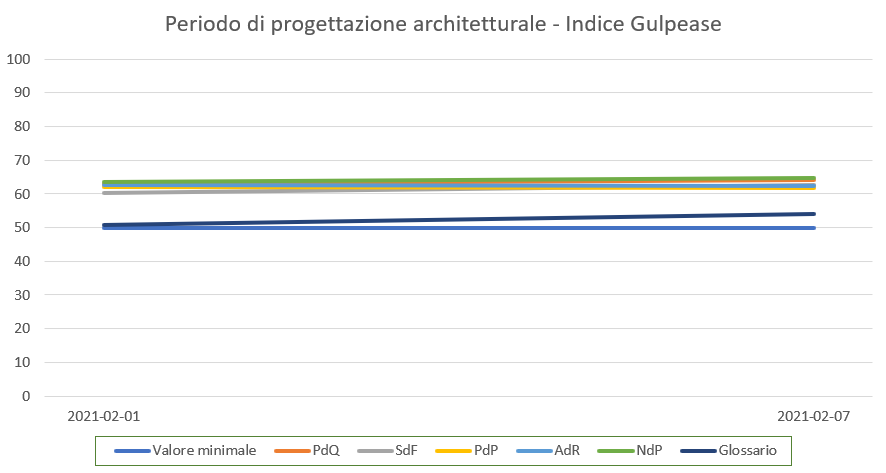
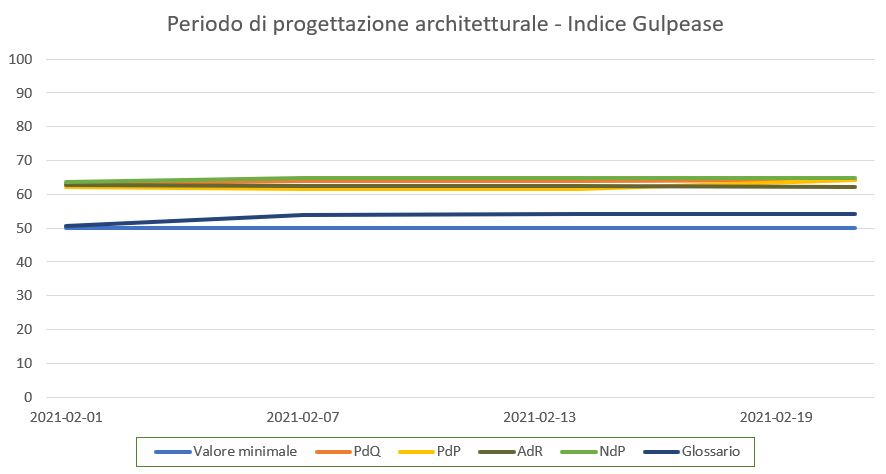
Aggiunto gulpease
Aggiunto grafico Gulpease

diff --git a/DocumentiPubblici/PianoDiProgetto/Sezioni/Sottosezioni/Consuntivo/ConsuntivoProgettazioneArchitetturale.tex b/DocumentiPubblici/PianoDiProgetto/Sezioni/Sottosezioni/Consuntivo/ConsuntivoProgettazioneArchitetturale.tex
@@ -44,7 +44,7 @@ In questo sottoperiodo si è proceduto a correggere i documenti a seguito di qua
 \subsubsection{Preventivo a finire}
 Per poter correggere le mancanze individuate nell'\AdRv{1.0.0}\ a seguito dell'incontro con il \CR\, sono state necessarie ben 6 ore in più nel ruolo di \textit{Analista} rispetto a quanto preventivato ma riorganizzando il metodo di verifica è stato possibile recuperare 4 ore nel ruolo di \textit{Verificatore}.
 
-\myparagraph{\glo{TB} e \glo{PoC} - Incremento 1}
+\myparagraph{\glo{TB} e PoC - Incremento 1}
 Di seguito è presente la tabella contenente i dati del consuntivo dal 2021\_02\_10 al 2021\_02\_20.
 \begin{table}[H]
 	\centering
@@ -54,17 +54,17 @@ Di seguito è presente la tabella contenente i dati del consuntivo dal 2021\_02\
 		Ruolo			&	Preventivo				&	Consuntivo		&	Preventivo	&	Consuntivo\\ \hline
 		{\Responsabile}		&	5					&	5				&	150,00		&	150,00 \\ \hline
 		{\Amministratore}	&	5					&	5				&	100,00		&	100,00 \\ \hline
-		\textit{Analista}	&	10					&	14(+4)				&	250,00		&	350,00(+100) \\ \hline
+		\textit{Analista}	&	10					&	14(+4)			&	250,00		&	350,00(+100) \\ \hline
 		\textit{Progettista}& 	32					&   32 				& 	704,00		&  	704,00 \\ \hline
 		\textit{Programmatore}& 12					& 	12				& 	180,00		&  	180,00 \\ \hline
-		\textit{Verificatore}&	13					&	10(-3)				&	195,00		&	150,00(-45) \\ \hline
+		\textit{Verificatore}&	13					&	10(-3)			&	195,00		&	150,00(-45) \\ \hline
 		Totale				&	77					&	78				&	1579,00		&	1634,00 \\ \hline
-		Differenza			& 	\multicolumn{2}{c|}{-1} 			        &\multicolumn{2}{c|}{-55}\\ \hline
+		Differenza			& 	\multicolumn{2}{c|}{-1} 			    &\multicolumn{2}{c|}{-55}\\ \hline
 	\end{tabular}
 	\caption{Prospetto orario ed economico a consuntivo dal 2021\_02\_10 al 2021\_02\_20}
 \end{table}
 \subsubsection{Conclusione}
-In questo periodo si è iniziata la stesura del \glo{PoC} e si è continuato con la correzione dell'\AdR e l'aggiornamento di alcuni documenti.
+In questo periodo si è iniziata la stesura del \glo{PoC} e si è continuato con la correzione dell'\AdR{} e l'aggiornamento di alcuni documenti.
 \subsubsection{Preventivo a finire}
 Anche in questo periodo sono state necessarie più ore nel ruolo di \textit{Analista} rispetto a quanto preventivato, 4 ore in più, e meno nel ruolo di \textit{Verificatore} grazie al migliore procedimento di verifica già attuato anche nelle settimane precedenti. 
 
@@ -83,7 +83,7 @@ Di seguito è presente la tabella contenente i dati del consuntivo dal 2021\_02\
 		\textit{Programmatore}& 9					& 	9				& 	135,00		&  	135,00 \\ \hline
 		\textit{Verificatore}&	21					&	21				&	315,00		&	315,00 \\ \hline
 		Totale				&	70					&	70				&	1373,00		&	1373,00 \\ \hline
-		Differenza			& 	\multicolumn{2}{c|}{-} 			&\multicolumn{2}{c|}{-}\\ \hline
+		Differenza			& 	\multicolumn{2}{c|}{-} 					&\multicolumn{2}{c|}{-}\\ \hline
 	\end{tabular}
 	\caption{Prospetto orario ed economico a consuntivo dal 2021\_02\_21 al 2021\_02\_27}
 \end{table}
